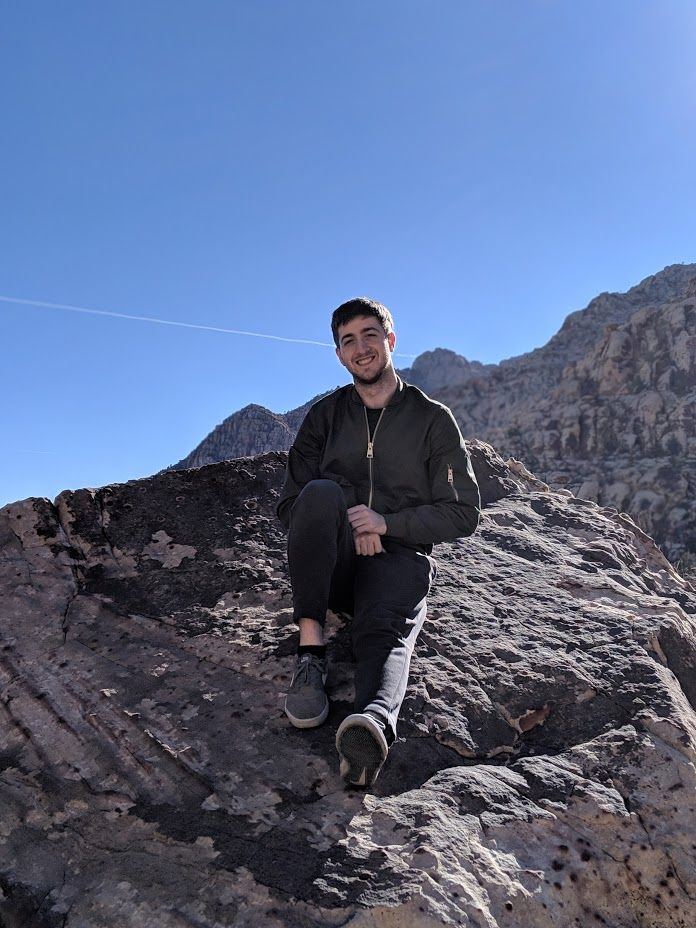
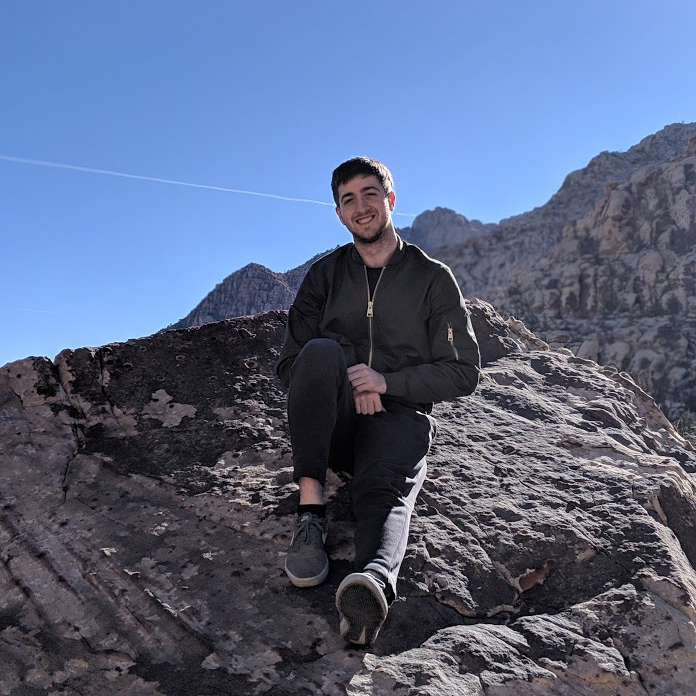
Modified image

diff --git a/homepage/templates/homepage.html b/homepage/templates/homepage.html
@@ -8,17 +8,20 @@
     <!-- Bootstrap CSS -->
     <link rel="stylesheet" href="https://maxcdn.bootstrapcdn.com/bootstrap/4.0.0/css/bootstrap.min.css"
           integrity="sha384-Gn5384xqQ1aoWXA+058RXPxPg6fy4IWvTNh0E263XmFcJlSAwiGgFAW/dAiS6JXm" crossorigin="anonymous">
+    <link href="https://fonts.googleapis.com/css?family=Cabin|Gentium+Basic|Vidaloka" rel="stylesheet">
 
+    {% load static %}
+    <link rel="stylesheet" type="text/css" href={% static "homepage/homepage.css" %}>
     <title>Kyle Levy</title>
 </head>
 <body>
-<nav class="navbar navbar-expand-lg navbar-light bg-light">
+<nav class="navbar navbar-expand-lg">
     <a class="navbar-brand" href="#">Kyle Levy</a>
     <button class="navbar-toggler" type="button" data-toggle="collapse" data-target="#navbarNavAltMarkup"
             aria-controls="navbarNavAltMarkup" aria-expanded="false" aria-label="Toggle navigation">
         <span class="navbar-toggler-icon"></span>
     </button>
-    <div class="collapse navbar-collapse" id="navbarNavAltMarkup">
+    <div class="collapse navbar-collapse ml-auto" id="navbarNavAltMarkup">
         <div class="navbar-nav">
             <a class="nav-item nav-link" href="#">Projects</a>
             <a class="nav-item nav-link" href="#">About</a>
@@ -27,7 +30,15 @@
         </div>
     </div>
 </nav>
-<h1>Kyle Levy</h1>
+<div class="container-fluid">
+    <div class="row" id="profile-row">
+        <div class="col">
+            <div class="text-center">
+                <img src="{% static "homepage/kyle_levy_profile.jpg" %}" class="rounded m-4" id="profile-pic">
+            </div>
+        </div>
+    </div>
+</div>
 
 <!-- Optional JavaScript -->
 <!-- jQuery first, then Popper.js, then Bootstrap JS -->

diff --git a/homepage/static/homepage/homepage.css b/homepage/static/homepage/homepage.css
@@ -1,0 +1,29 @@
+.nav-item, .navbar-brand {
+    font-family: 'Cabin', sans-serif;
+    font-size: 40px;
+    color: #0dab76;
+}
+
+.nav-item {
+    font-size: 30px;
+}
+
+.nav-item:hover, .navbar-brand:hover{
+    color: #12d599;
+}
+
+.navbar{
+    background: #080708;
+}
+
+#profile-row{
+    background:#d1d6ef;
+}
+
+#profile-pic{
+    width: 35%;
+}
+
+.rounded {
+    border-radius: 1rem !important;
+}
